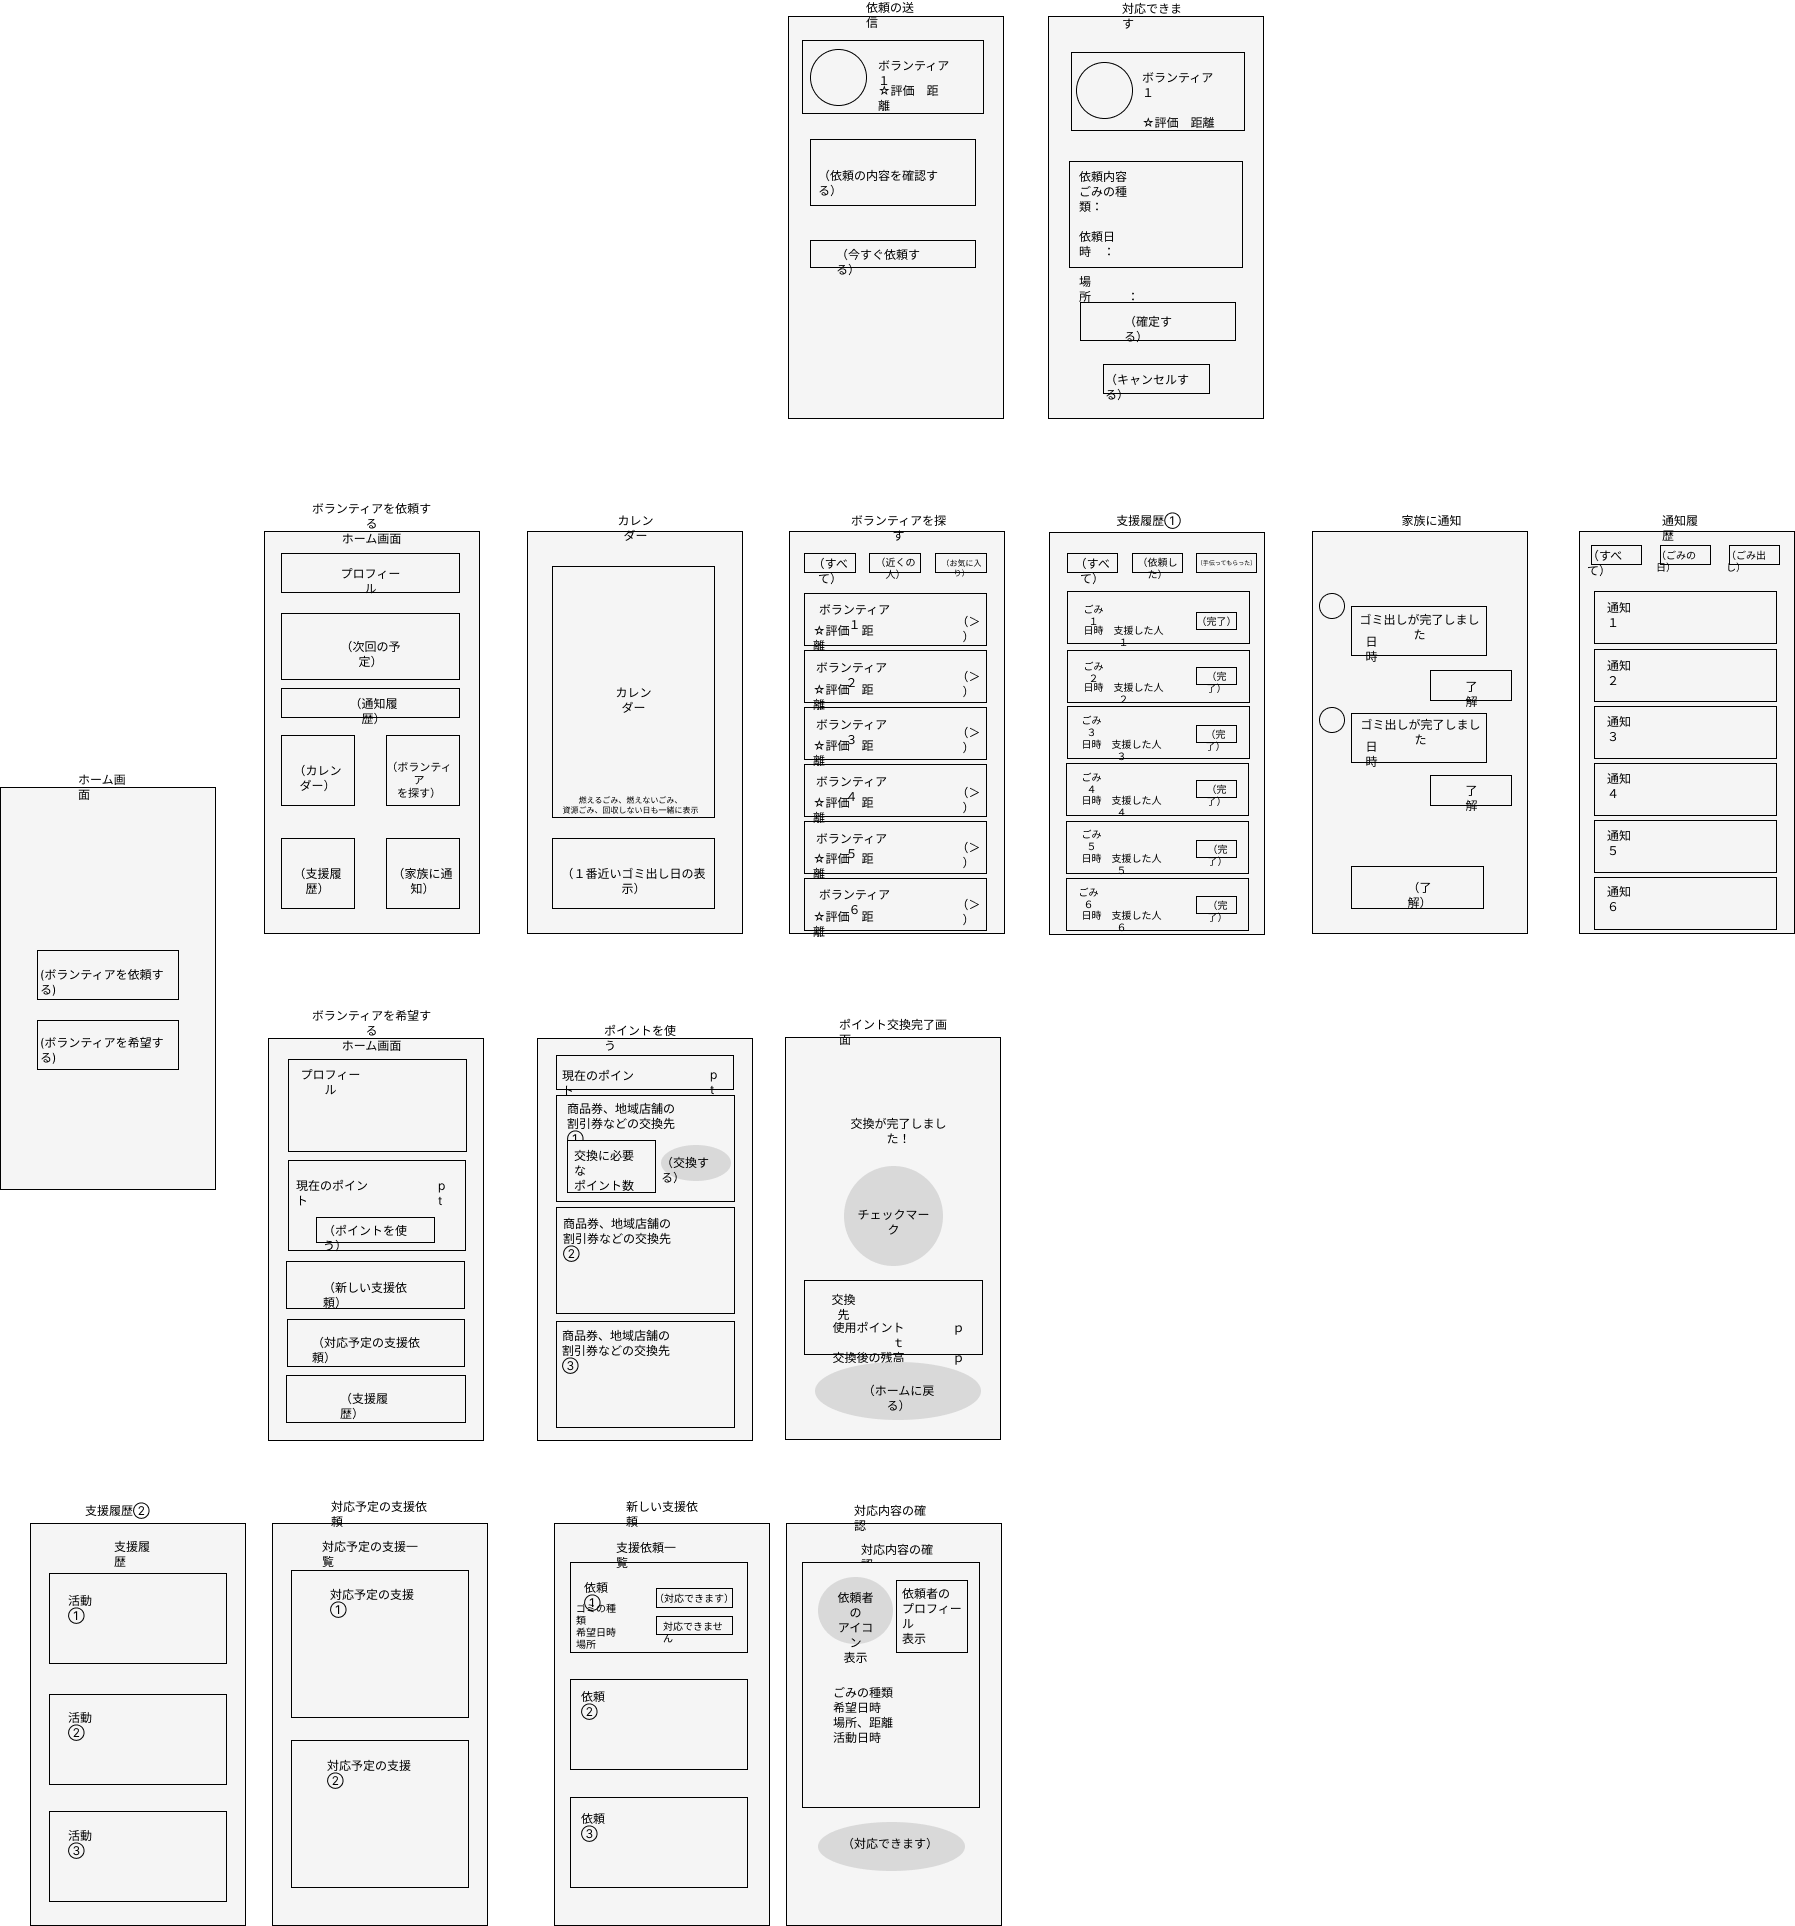
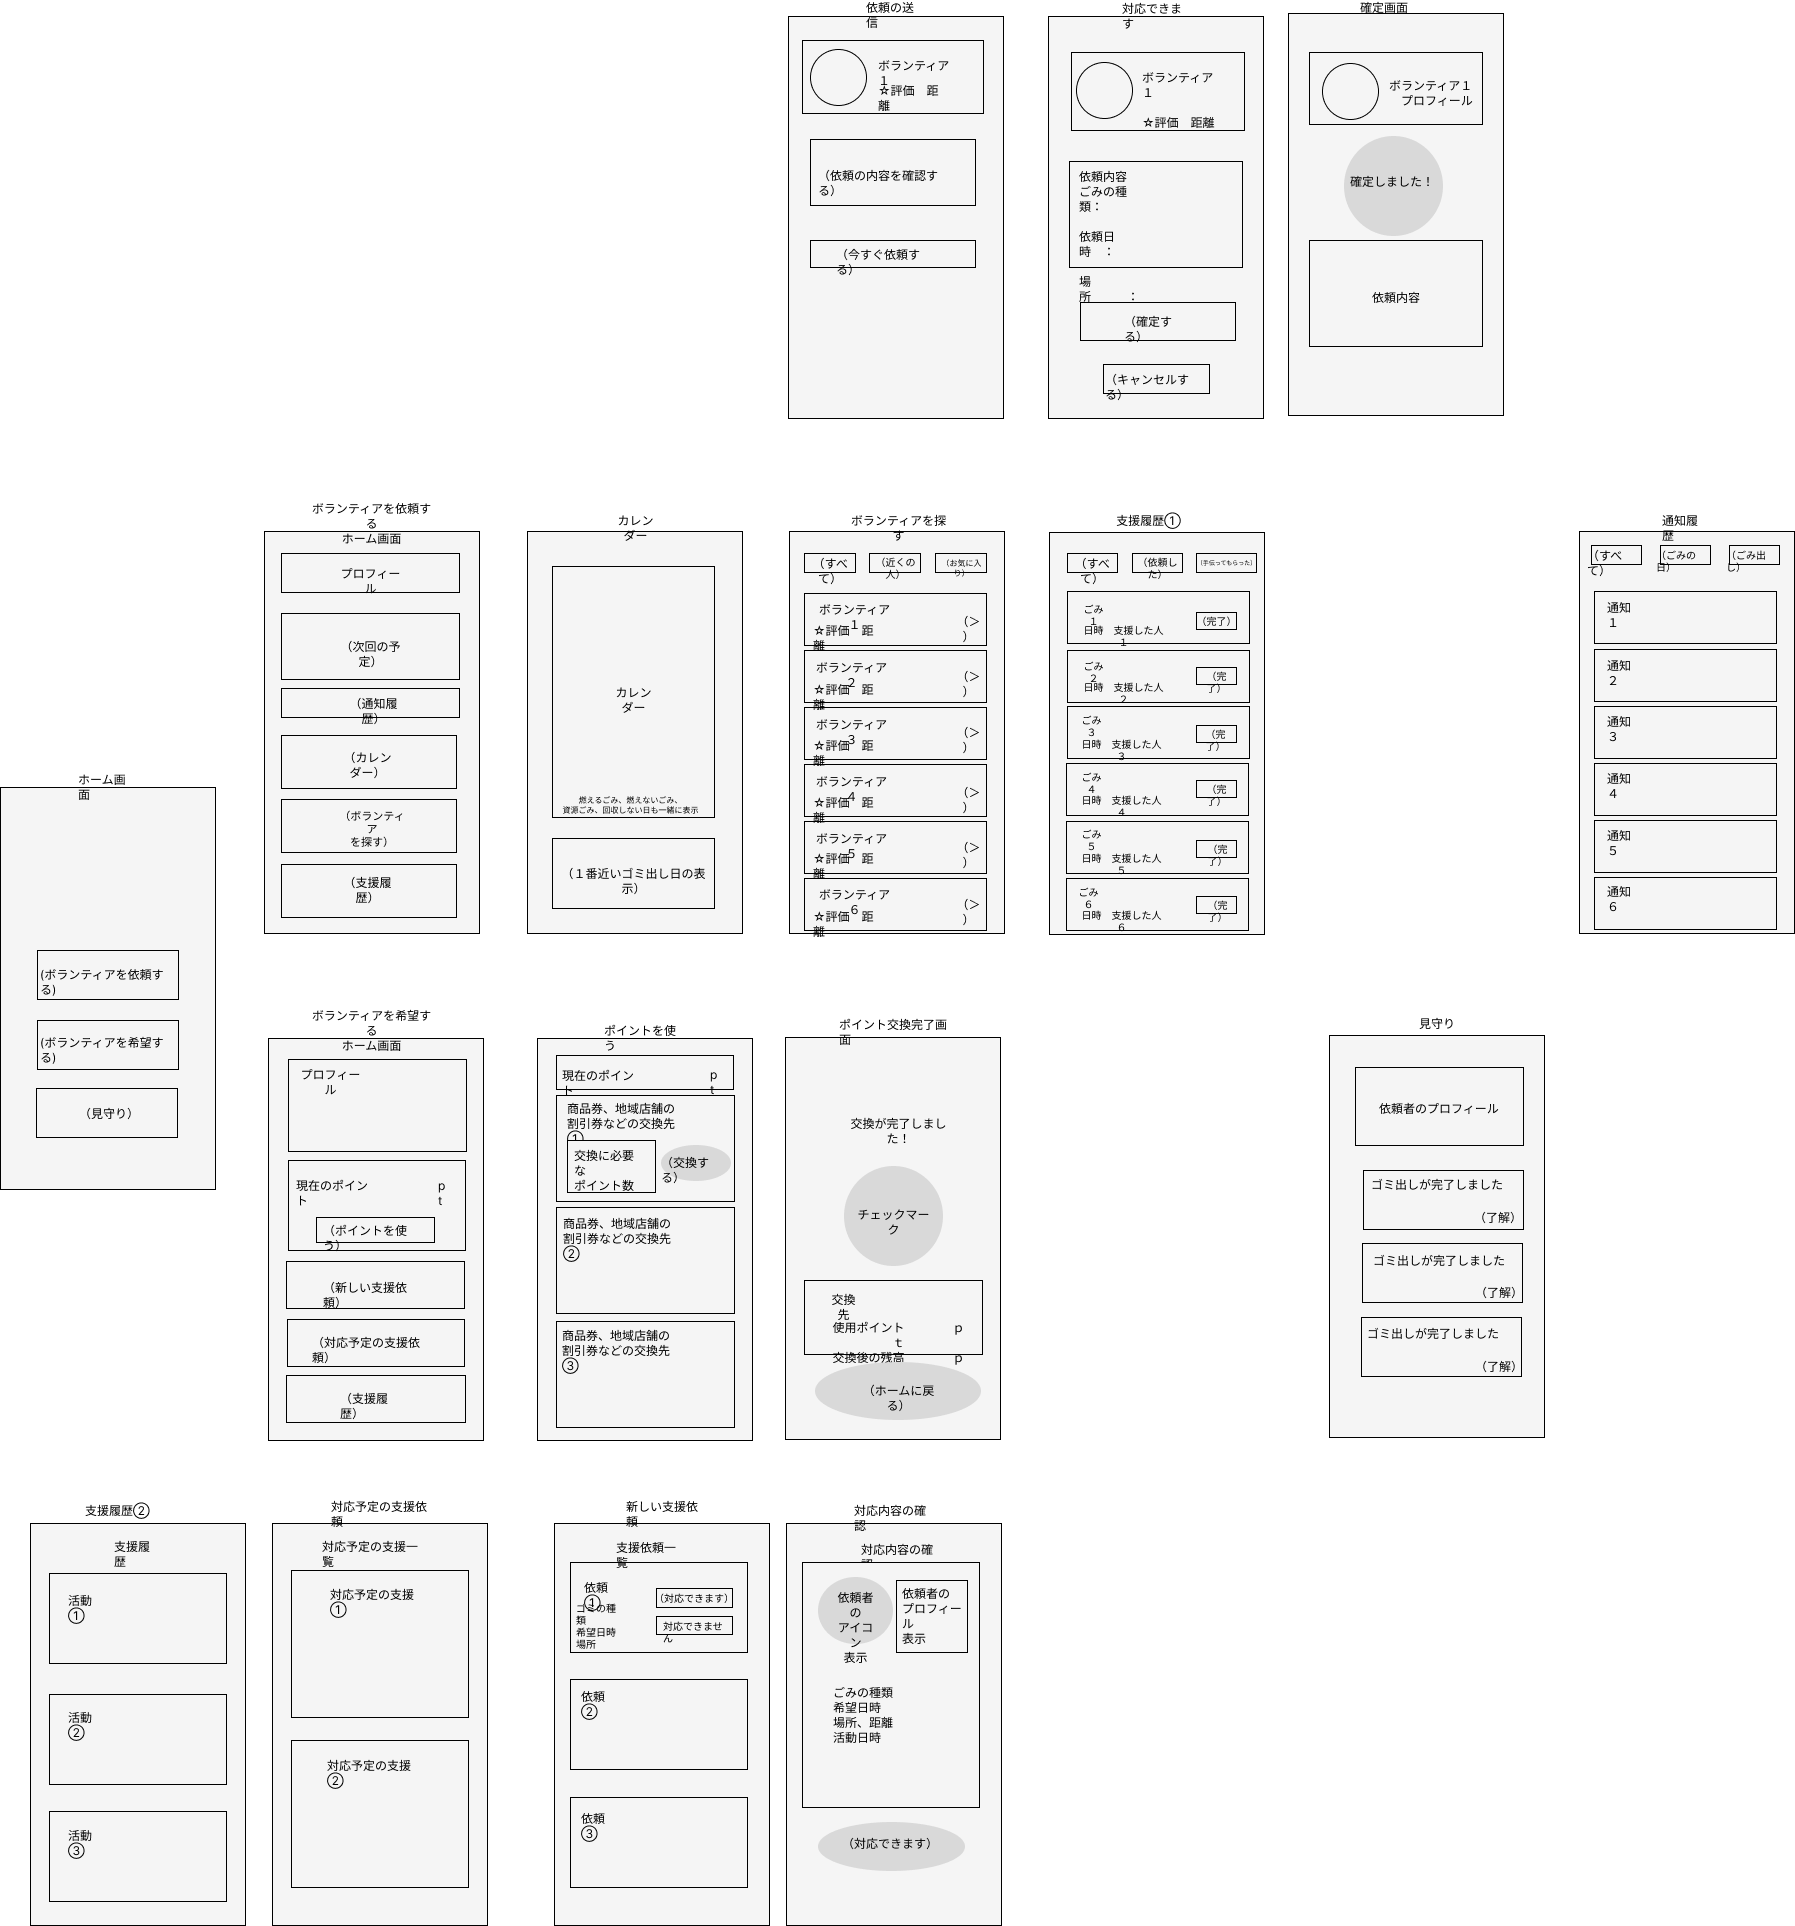
変更

diff --git a/gomikatsu_app_index.html b/gomikatsu_app_index.html
@@ -1,0 +1,26 @@
+<!DOCTYPE html>
+<html lang="ja">
+<head>
+    <meta charset="UTF-8">
+    <meta name="viewport" content="width=device-width, initial-scale=1.0">
+    <title>ごみカツ！ - トップ画面</title>
+    <link rel="stylesheet" href="./style.css">
+</head>
+<body>
+    <div class="app-container">
+        <header>
+            <h1>ごみカツ！</h1>
+        </header>
+        <main style="justify-content: center; gap: 20px;">
+            <div style="text-align: center; margin-bottom: 10px;">
+                <p style="font-size: 1.2rem; font-weight: bold; color: #444;">地域で支え合うゴミ出しサポート</p>
+            </div>
+            <a href="./home_requester.html" class="btn">ボランティアを依頼する</a>
+            <a href="./home_volunteer.html" class="btn btn-secondary">ボランティアを希望する</a>
+            <a href="./notify_family.html" class="btn btn-light">見守り</a>
+        </main>
+        <footer>© ごみカツ！</footer>
+    </div>
+    <script src="./script.js"></script>
+</body>
+</html>
